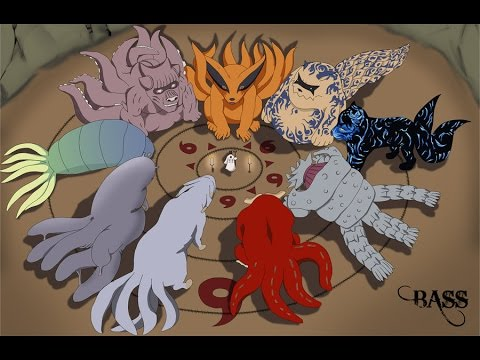
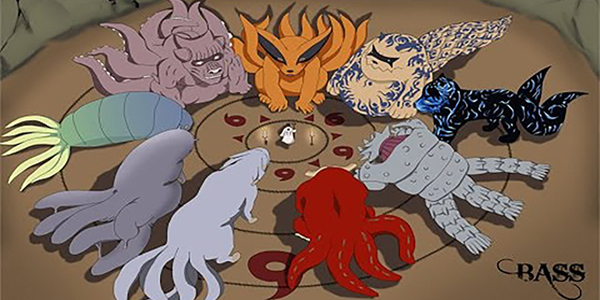
修改图片大小

diff --git a/resume.html b/resume.html
@@ -222,7 +222,7 @@
                 <div class="item">
                     <h3>手机画板（Canvas画图）</h3>
                     <div class="picture netEase">
-                        <a href="https://wang7211401.github.io/jirengu-12/huatu.html" target="_blank"><img src="img/huaban.png" alt=""></a>
+                        <a href="https://wang7211401.github.io/jirengu-12/huatu.html" target="_blank"><img src="img/huaban.jpg" alt=""></a>
                     </div>
                     <div class="describe">
                         <p>
